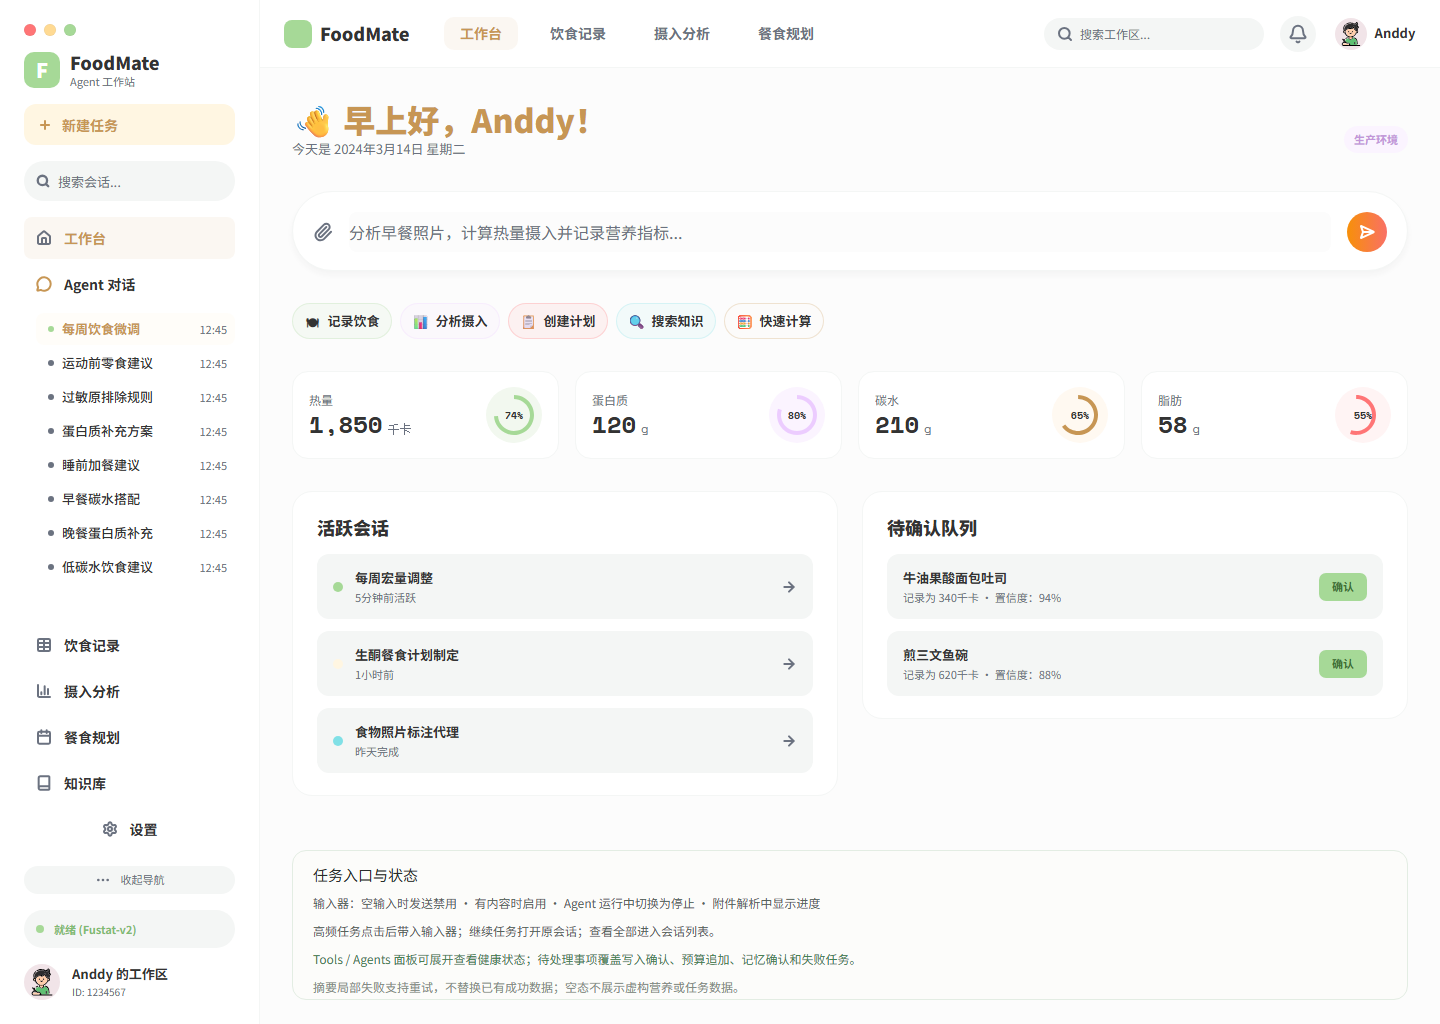
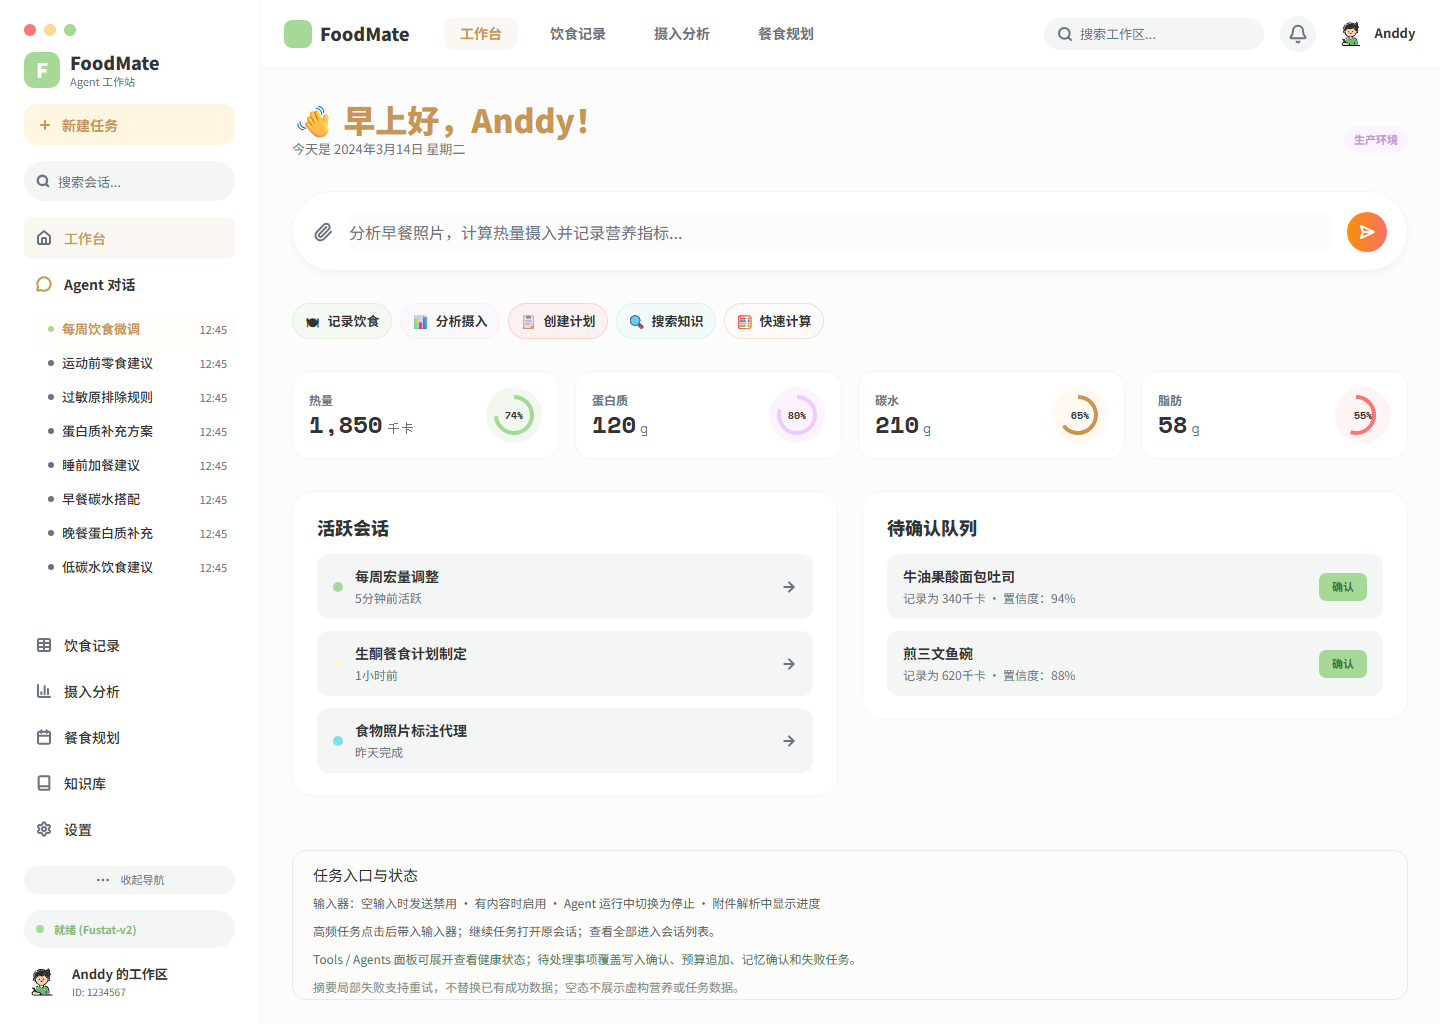
fix(ui): 收口 Workspace Home 与 Agent Chat 共享壳层

diff --git a/foodmate-ui/src/layouts/WorkspaceLayout/WorkspaceLayout.module.css b/foodmate-ui/src/layouts/WorkspaceLayout/WorkspaceLayout.module.css
@@ -82,6 +82,17 @@
   min-height: 42px;
 }
 
+/* Figma 工作台和饮食工具导航使用 Medium，设置入口也保持与导航一致的左对齐。 */
+.figmaFixture .primarySideNav .sideLink.active,
+.figmaFixture .secondarySideNav .sideLink,
+.figmaFixture .secondarySideNav .sideButton {
+  font-weight: var(--fm-figma-workspace-sidebar-nav-weight);
+}
+
+.figmaFixture .secondarySideNav .sideButton {
+  justify-content: flex-start;
+}
+
 .figmaFixture :global(.sidebar-session-section) {
   display: block;
   flex: 0 0 auto;
@@ -599,6 +610,11 @@
   color: var(--fm-ink);
   font-size: 12px;
   box-shadow: none;
+}
+
+/* Figma 工作台顶栏搜索文字为 13px，覆盖 shadcn Input 的默认字号。 */
+.figmaFixture .workspaceSearch input {
+  font-size: var(--fm-figma-workspace-search-text-size);
 }
 .workspaceSearch svg {
   position: absolute;

diff --git a/foodmate-ui/src/pages/HomePage/HomePage.module.css b/foodmate-ui/src/pages/HomePage/HomePage.module.css
@@ -148,6 +148,28 @@
   background: var(--fm-fixture-home-surface);
 }
 
+/* Figma Home 指标卡的文字层级与数值单位间距。 */
+.figmaHomePage .metricLabel {
+  font-size: var(--fm-figma-home-metric-label-size);
+  font-weight: 700;
+}
+
+.figmaHomePage .metricCard small {
+  margin-left: var(--fm-figma-home-metric-unit-gap);
+  font-size: var(--fm-figma-home-metric-unit-size);
+}
+
+/* Figma Home 两个信息面板的标题和辅助文字均比通用卡片字号更大一档。 */
+.figmaHomePage .sessionCard strong,
+.figmaHomePage .pendingCard strong {
+  font-size: var(--fm-figma-home-card-title-size);
+}
+
+.figmaHomePage .sessionCard small,
+.figmaHomePage .pendingCard small {
+  font-size: var(--fm-figma-home-card-copy-size);
+}
+
 .figmaHomePage .panel {
   border-color: var(--fm-fixture-home-border);
   border-radius: 20px;

diff --git a/foodmate-ui/src/styles/tokens.css b/foodmate-ui/src/styles/tokens.css
@@ -181,6 +181,14 @@
   --fm-figma-workspace-rail-width: 320px;
   --fm-figma-workspace-wide-rail-width: 340px;
   --fm-figma-workspace-padding: 24px;
+  --fm-figma-workspace-sidebar-nav-weight: 500;
+  --fm-figma-workspace-search-text-size: 13px;
+  --fm-figma-home-metric-label-size: 12px;
+  --fm-figma-home-metric-unit-size: 13px;
+  --fm-figma-home-metric-unit-gap: 4px;
+  --fm-figma-home-card-title-size: 14px;
+  --fm-figma-home-card-copy-size: 12px;
+  --fm-figma-chat-trace-tab-active-surface: rgba(236, 204, 255, 0.1);
   /* Figma Avatar 容器没有可见底色，人物 SVG 直接落在工作台表面。 */
   --fm-figma-avatar-surface: transparent;
   --fm-figma-task-panel-offset: 54px;

diff --git a/foodmate-ui/src/pages/ChatPage/ChatPage.module.css b/foodmate-ui/src/pages/ChatPage/ChatPage.module.css
@@ -982,6 +982,13 @@
   border-color: var(--fm-fixture-chat-border);
 }
 
+/* Figma 运行轨迹 Tabs 容器透明，只有当前步骤标签保留浅紫色激活面。 */
+.designTracePanel .traceTabs {
+  padding: 0;
+  border-radius: 0;
+  background: transparent;
+}
+
 .traceTitle {
   flex: 0 0 auto;
   color: var(--fm-ink);
@@ -1019,8 +1026,9 @@
 }
 
 .traceTabs button[data-state='active'] {
-  background: rgba(236, 204, 255, 0.1);
+  background: var(--fm-figma-chat-trace-tab-active-surface);
   color: #b58cc4;
+  box-shadow: none;
 }
 
 .traceBody {

diff --git a/docxs/功能实现说明/前端已完成实现清单.md b/docxs/功能实现说明/前端已完成实现清单.md
@@ -1,5 +1,20 @@
 # 前端已完成实现清单
 
+## 当前执行批次：Workspace/Home 与 Agent Chat 共享壳层视觉收口（2026-09-12）
+
+本批次只处理实时 Figma 节点 `640:256`、`640:428` 对应的共享壳层、Home 指标/信息卡和 Chat 运行轨迹 Tabs；不重新验收其它 103 个画板。Figma 仍是唯一视觉来源，shadcn/Radix 只提供控件能力。
+
+- [x] 已通过 `get_design_context` 重新读取 Workspace/Home `640:256` 与 Agent Chat `640:428`，确认侧栏、顶栏、Home 指标卡、信息面板和运行轨迹 Tabs 的字号、字重、间距、背景与布局基线。
+- [x] Figma fixture 侧栏设置入口已覆盖 shadcn `Button` 的默认居中样式并恢复左对齐；工作台激活项和饮食工具导航使用 Figma 要求的 `Noto Sans SC Medium`。
+- [x] 顶栏搜索文字、Home 指标标题/单位/数值间距、活跃会话和待确认卡片文字层级已写入语义 Token 并限定在 Figma fixture 作用域。
+- [x] Chat 运行轨迹 Tabs 已去除 shadcn `TabsList` 的灰色容器、内边距和激活阴影，仅激活的“步骤”标签保留 Figma 浅紫色背景。
+- [x] 仅重新采集两张受影响画板：均为 `1440×1024`、DPR `1`、字体 `loaded`、无页面横向溢出；Home diff 为 `11.7603% / MAE 3.015898 / RMSE 17.956946 / maxChannelDelta 252`，Chat diff 为 `11.3300% / MAE 2.810838 / RMSE 17.120096 / maxChannelDelta 211`。
+- [x] 两张画板均完成截图人工复核和独立 diff JSON 登记，映射状态继续为 `DIFF_REVIEW`；未修改其它 103 个画板的截图或 diff 证据。
+- [x] 本大点统一门禁：Vitest `46/46` 个测试文件、`308/308` 个用例，`typecheck`、`lint`、`format:check`、`build`、`qa:figma:validate` 和 `git diff --check` 均通过。
+- [x] 头像运行时和构建产物复核通过：默认人物头像白名单只有用户提供的 `default-male.svg` 与 `default-female.svg`；本批次未发现其它默认人物头像入口。
+- [ ] 本批次两张受影响画板仍存在非零 PNG diff，不能标记像素级 `PASS`；105 项全量汇总继续为 `105 DIFF_REVIEW / 0 PASS / 0 UNMAPPED / 0 SIZE_MISMATCH`。
+- [ ] iconfont 实体包、CSS/Unicode 映射、来源、许可证和 glyph-Figma 映射仍未提供，登记状态继续保持 `BLOCKED`。
+
 ## 当前执行批次：Auth 页面组 Figma 基线复核与头像边界确认（2026-09-12）
 
 本批次是重构计划的页面组基线步骤，只复核 Auth 代表画板和头像运行时来源，不重新验收全部 105 个画板，也不对已经与 Figma 对齐的 Auth CSS 做无证据改动。

diff --git a/docxs/功能实现说明/Figma前端像素级验收报告.md b/docxs/功能实现说明/Figma前端像素级验收报告.md
@@ -2,6 +2,24 @@
 
 更新时间：2026-09-12
 
+## 1.1.15 2026-09-12 Workspace/Home 与 Agent Chat 共享壳层视觉收口
+
+本节只记录 Figma 节点 `640:256`、`640:428` 的共享壳层增量验收，不重新采集其它 103 个画板。Figma 作为唯一视觉来源，shadcn/Radix 只提供基础控件能力。
+
+| 画板 | Figma 节点 | 浏览器视口 / DPR | 字体 | 横向溢出 | Diff 比例 | MAE | RMSE | 最大通道差异 | 结论 |
+|---|---|---|---|---|---:|---:|---:|---:|---|
+| Workspace Home | `640:256` | `1440×1024 / 1` | `loaded` | `false` | `11.7603%` | `3.015898` | `17.956946` | `252` | `DIFF_REVIEW` |
+| Agent Chat | `640:428` | `1440×1024 / 1` | `loaded` | `false` | `11.3300%` | `2.810838` | `17.120096` | `211` | `DIFF_REVIEW` |
+
+- [x] Workspace/Home：按 Figma 对照收口 Settings 左对齐、导航 Medium、顶栏搜索 `13px`、Home 指标字号/单位间距和活跃会话/待确认卡片文字层级。
+- [x] Agent Chat：按 Figma 对照移除运行轨迹 `TabsList` 默认灰色容器、内边距和激活阴影，仅保留激活“步骤”标签的浅紫色背景。
+- [x] 两张浏览器 PNG 均由 Chrome CDP 在 `1440×1024`、DPR `1` 下重新采集；字体状态为 `loaded`，页面无横向溢出；独立 diff JSON 已登记在 `.qa/figma-pixel-acceptance/recaptured/`。
+- [x] 已直接查看两张最新浏览器截图，确认侧栏、Home 卡片、Chat 轨迹栏和消息区没有新增遮挡或裁切。
+- [x] 本大点质量门禁通过：Vitest `46/46` 文件、`308/308` 用例，`typecheck`、`lint`、`format:check`、`build`、`qa:figma:validate`、`git diff --check` 均通过。
+- [x] 头像资源边界复核通过：运行时和 `dist` 头像目录各只有用户提供的 `default-male.svg` 与 `default-female.svg`；没有发现其它默认人物头像入口。
+- [ ] 两项 PNG diff 均非零，且截图中仍可见字体光栅化和局部视觉差异，因此不能标记 `PASS`。105 项全量汇总保持 `105 DIFF_REVIEW / 0 PASS / 0 UNMAPPED / 0 SIZE_MISMATCH`。
+- [ ] iconfont 实体包、CSS/Unicode 映射、来源、许可证和 glyph-Figma 映射仍缺失，继续保持 `BLOCKED`。
+
 ## 1.1.14 2026-09-12 Auth 页面组基线复核与头像来源确认
 
 本节记录重构计划进入页面组执行后的 Auth 基线复核。范围为 Login `647:214`、Register `680:216` 和 Token Invalid `680:738` 三个代表画板；不重新采集全部 105 个画板，不把已有非零 diff 改写为 `PASS`。

diff --git a/docxs/实现/前端实现指南.md b/docxs/实现/前端实现指南.md
@@ -5,6 +5,17 @@
 日期：2026-09-02
 详细来源：[UI 设计规范](../设计/UI设计规范.md)、[Figma 前端重构设计需求规格](../设计/Figma前端重构设计需求规格.md)、[接口与数据规范](../契约/接口与数据规范.md)、[实现附录](../参考/实现附录.md)
 
+### Workspace/Home 与 Agent Chat 共享壳层视觉收口（2026-09-12）
+
+- 本大点已通过 `get_design_context` 读取实时 Figma 节点 `640:256`、`640:428`，只修改 Figma fixture 作用域，未从真实模式页面样式反推视觉值。
+- 共享壳层按 Figma 基线收口：侧栏设置入口左对齐，工作台激活项与饮食工具导航使用 Medium，顶栏搜索文字使用 `13px`；对应值集中在 `tokens.css` 的 Workspace/Home/Chat 语义 Token 中。
+- Home 指标卡使用 `12px` 指标标题、`13px` 单位和 `4px` 数值单位间距；活跃会话与待确认卡片标题/辅助文字使用 `14px/12px`。
+- Chat 运行轨迹 Tabs 覆盖 shadcn `TabsList` 默认灰色容器、内边距和激活阴影，保持透明容器，仅“步骤”激活标签使用 Figma 浅紫色表面。
+- 受影响画板仅重新采集 `workspace-home-v2`、`agent-chat-v2`，两项均为 `1440×1024`、DPR `1`、字体 `loaded`、无横向溢出。最新 diff 分别为 Home `11.7603% / MAE 3.015898 / RMSE 17.956946 / maxChannelDelta 252`、Chat `11.3300% / MAE 2.810838 / RMSE 17.120096 / maxChannelDelta 211`。
+- 两项均完成自动 diff、几何/文字门禁和人工视觉复核，但仍存在非零差异，继续保持 `DIFF_REVIEW`；本批次未重新验收其它 103 个画板，全量仍为 `105 DIFF_REVIEW / 0 PASS / 0 UNMAPPED / 0 SIZE_MISMATCH`。
+- 头像运行时与构建产物复核确认只包含用户提供的 `default-male.svg`、`default-female.svg`；认证 `foodmate-*-user.svg` 仍只作为输入框装饰图标。iconfont 继续保持 `BLOCKED`。
+- 本大点质量门禁：Vitest `46/46` 文件、`308/308` 用例、`typecheck`、`lint`、`format:check`、`build`、`qa:figma:validate`、`git diff --check` 全部通过。
+
 ### 计划执行基线复核：Auth 与默认头像（2026-09-12）
 
 - Auth 代表画板 `647:214`、`680:216`、`680:738` 已重新读取实时 Figma 节点；当前页面结构和已登记 Token 没有发现需要凭空调整的差异，后续优先进入 Workspace/Home 与 Chat 页面组。
